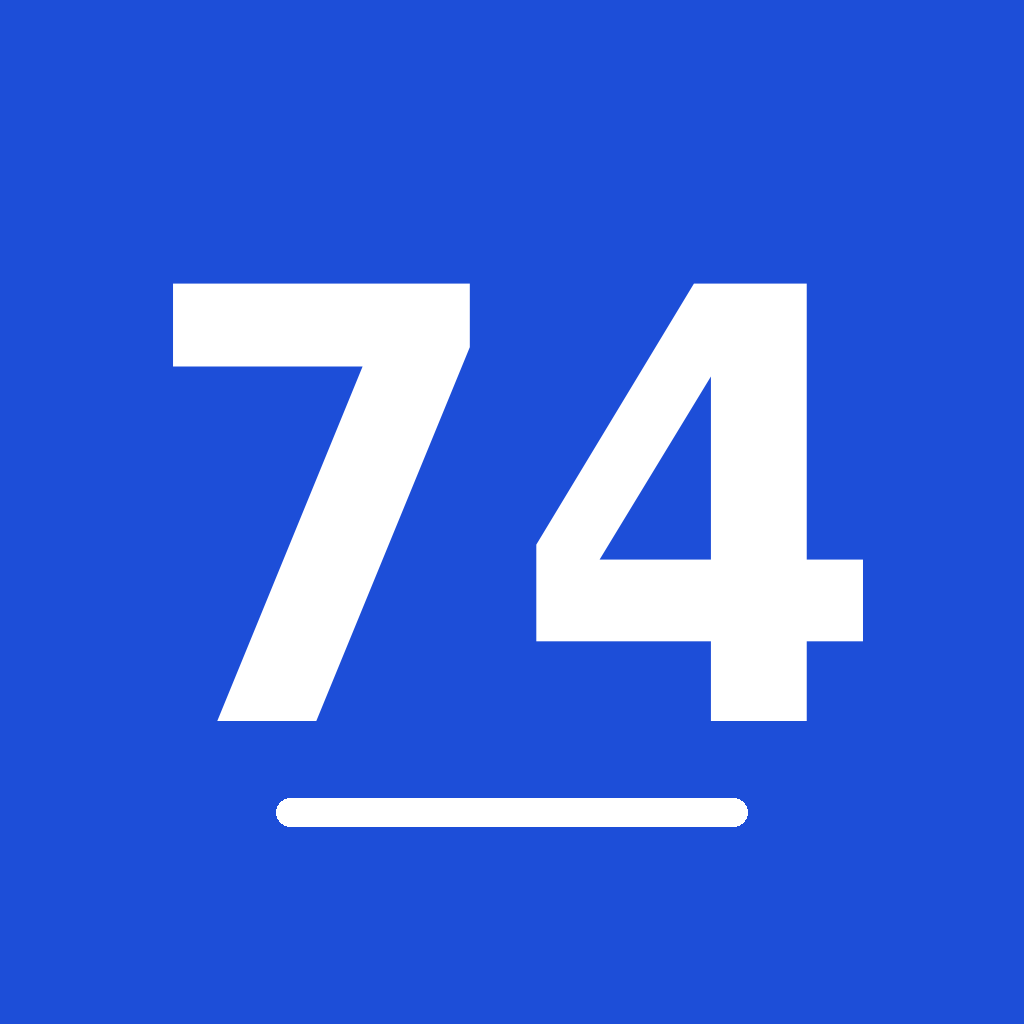
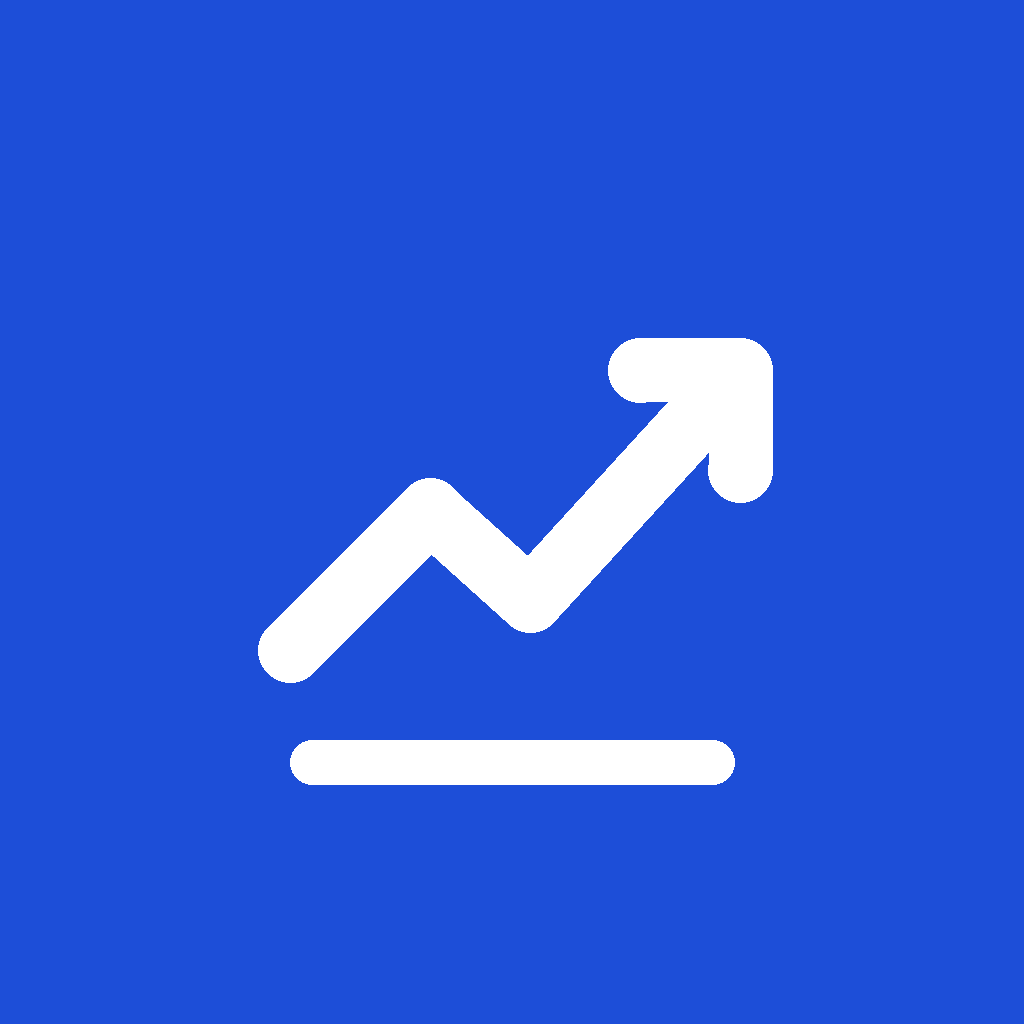
Hacer la app personalizable: bienvenida, nombre, metas de subir o bajar e ícono neutro
Claude-Session: https://claude.ai/code/session_0172rjpbYCFZVK7n6eLpczvZ

Changed region(s): [[0.1562, 0.25, 0.8438, 0.8125]]

diff --git a/www/index.html b/www/index.html
@@ -4,7 +4,7 @@
 <meta charset="utf-8">
 <meta name="viewport" content="width=device-width,initial-scale=1,viewport-fit=cover">
 <meta name="color-scheme" content="light dark">
-<title>Camino a 74</title>
+<title>Mi Camino</title>
 <link rel="stylesheet" href="fonts/fonts.css">
 <style>
 /* Concepto: app de bolsillo con cinta inferior; el micrófono es el botón central elevado. Estilo atlético: tipografía condensada, tarjetas planas, un solo azul de acento y un naranja solo para el asistente. */
@@ -269,8 +269,10 @@ const ic=(n,s)=>`<svg width="${s||22}" height="${s||22}" viewBox="0 0 24 24" fil
 
 /* ---------- Contenido ---------- */
 const MET_ROPE=11.0; /* Compendio de Actividad Física, "Rope skipping exercise, general" */
-const DEF={startW:80,targetW:74,height:1.74,pMin:1.3,waterGoal:8,rem:{weigh:{on:true,t:'06:30'},lunch:{on:true,t:'12:30'},train:{on:true,t:'18:00'},diary:{on:true,t:'21:00'}}};
-function normSettings(x){const s=Object.assign({},DEF,clone(x||{}));s.rem=Object.assign(clone(DEF.rem),(x&&x.rem)||{});Object.keys(DEF.rem).forEach(k=>{s.rem[k]=Object.assign({},DEF.rem[k],s.rem[k]);});s.customEx=Array.isArray(s.customEx)?s.customEx:[];return s;}
+const DEF={setup:false,name:'',startW:80,targetW:74,height:1.74,pMin:1.3,waterGoal:8,rem:{weigh:{on:true,t:'06:30'},lunch:{on:true,t:'12:30'},train:{on:true,t:'18:00'},diary:{on:true,t:'21:00'}}};
+function normSettings(x){const s=Object.assign({},DEF,clone(x||{}));s.rem=Object.assign(clone(DEF.rem),(x&&x.rem)||{});Object.keys(DEF.rem).forEach(k=>{s.rem[k]=Object.assign({},DEF.rem[k],s.rem[k]);});s.customEx=Array.isArray(s.customEx)?s.customEx:[];s.name=String(s.name||'').slice(0,30);return s;}
+/* dir: -1 si la meta es bajar, 1 si es subir, 0 si es mantener */
+const gdir=()=>{const d=S.settings.targetW-S.settings.startW;return Math.abs(d)<0.05?0:d>0?1:-1;};
 const PLAN={
  0:{title:'Descanso activo',kind:'Movilidad',min:10,ex:[
    {n:'Movilidad de cadera y hombros',d:'10 min, sin prisa',m:['Caderas','Hombros','Espalda baja']},
@@ -382,7 +384,7 @@ async function kvSet(k,v){const P=plug('Preferences');try{if(P){await P.set({key
 async function loadStore(){
   let raw=await kvGet(KEY);
   if(raw==null){try{raw=localStorage.getItem(KEY);}catch(e){}}
-  try{const r=JSON.parse(raw||'null');if(r){S.settings=normSettings(r.settings);Object.keys(r.days||{}).forEach(k=>{S.days[k]=normDay(Object.assign({date:k},r.days[k]));});}}catch(e){}
+  try{const r=JSON.parse(raw||'null');if(r){S.settings=normSettings(r.settings);if(!r.settings||r.settings.setup==null)S.settings.setup=true;Object.keys(r.days||{}).forEach(k=>{S.days[k]=normDay(Object.assign({date:k},r.days[k]));});}}catch(e){}
 }
 function saveLocal(){kvSet(KEY,JSON.stringify({settings:S.settings,days:S.days}));}
 function payload(id){return id==='settings'?S.settings:(S.days[id.slice(2)]||null);}
@@ -399,7 +401,7 @@ function commit(date){render();schedule('d-'+date);}
 function commitSettings(){render();schedule('settings');}
 
 /* ---------- Vistas ---------- */
-function headerHTML(){return `<div class="brand">Camino a <b>74</b></div><div class="sync" id="sync">${syncText()}</div>`;}
+function headerHTML(){return `<div class="brand">Camino a <b>${kg(S.settings.targetW)}</b></div><div class="sync" id="sync">${syncText()}</div>`;}
 function navHTML(){
   const b=(id,icn,lb)=>`<button class="nb" data-act="tab" data-id="${id}" ${S.tab===id?'aria-current="page"':''}>${ic(icn,22)}<span>${lb}</span></button>`;
   return `<div class="in">${b('hoy','today','Hoy')}${b('comida','food','Comida')}<button class="mic" data-act="assist-open" aria-label="Abrir asistente de voz">${ic('mic',30)}</button>${b('diario','book','Diario')}${b('progreso','chart','Progreso')}</div>`;
@@ -422,7 +424,7 @@ function hoyView(){
   return `${dateBar()}
   <section class="card"><div class="hero">
     <div class="ring"><svg width="96" height="96" viewBox="0 0 96 96" role="img" aria-label="${pc}% del día"><g transform="rotate(-90 48 48)"><circle class="bg" cx="48" cy="48" r="36"/><circle class="fg" cx="48" cy="48" r="36" stroke-dasharray="${C.toFixed(1)}" stroke-dashoffset="${off.toFixed(1)}"/></g></svg><div class="n">${pc}%</div></div>
-    <div class="t"><div class="big">${done} de ${it.length} listos</div>
+    <div class="t">${S.settings.name?`<div class="muted">Hola, ${esc(S.settings.name)}</div>`:''}<div class="big">${done} de ${it.length} listos</div>
     ${st>0?`<div class="streak">${ic('flame',18)} Racha: ${st} ${st===1?'día':'días'} con 70% o más</div>`:'<div class="muted">La racha cuenta días con 70% o más.</div>'}</div>
   </div></section>
 
@@ -566,14 +568,15 @@ function weekly(){
 }
 function progresoAll(){
   const ws=weights(),st=S.settings,w=curW(),tr=trend();
-  const first=ws.length?ws[0].w:st.startW,total=w-st.startW,need=st.startW-st.targetW;
-  const prog=need>0?Math.max(0,Math.min(100,Math.round(100*(st.startW-w)/need))):0;
+  const first=ws.length?ws[0].w:st.startW,total=w-st.startW,dir=gdir(),need=Math.abs(st.targetW-st.startW);
+  const prog=need>0?Math.max(0,Math.min(100,Math.round(100*dir*(w-st.startW)/need))):0;
+  const okd=x=>dir===0?Math.abs(x)<0.3:x*dir>0;
   const bmi=w/(st.height*st.height);
   let proj='';
   if(tr){
     const d=tr.perWeek;
-    proj=`<p>Ritmo de los últimos 14 días: <b class="${d<0?'good':'warn'}">${d>0?'+':''}${fmt(d,2)} kg por semana</b> (${fmt(100*d/w,2)}% del peso).</p>`;
-    if(tr.slope<0&&tr.cur>st.targetW){const days=(tr.cur-st.targetW)/(-tr.slope);proj+=days<=730?`<p class="muted">Si mantienes este ritmo llegarías a ${kg(st.targetW)} kg hacia el ${(()=>{const t=parse(addDays(tr.last,Math.round(days)));return t.getDate()+' '+MON[t.getMonth()]+' '+t.getFullYear();})()}. Es una estimación y cambia con tu ritmo.</p>`:'<p class="muted">A este ritmo la meta queda a más de dos años. Revisa la constancia en la lista diaria.</p>';}
+    proj=`<p>Ritmo de los últimos 14 días: <b class="${okd(d)?'good':'warn'}">${d>0?'+':''}${fmt(d,2)} kg por semana</b> (${fmt(100*d/w,2)}% del peso).</p>`;
+    if(dir!==0&&tr.slope*dir>0&&(st.targetW-tr.cur)*dir>0){const days=(st.targetW-tr.cur)/tr.slope;proj+=days<=730?`<p class="muted">Si mantienes este ritmo llegarías a ${kg(st.targetW)} kg hacia el ${(()=>{const t=parse(addDays(tr.last,Math.round(days)));return t.getDate()+' '+MON[t.getMonth()]+' '+t.getFullYear();})()}. Es una estimación y cambia con tu ritmo.</p>`:'<p class="muted">A este ritmo la meta queda a más de dos años. Revisa la constancia en la lista diaria.</p>';}
   } else proj='<p class="muted">El ritmo aparece cuando tengas al menos 4 pesos repartidos en 7 días o más.</p>';
   const wk=weekly().slice(-6).reverse();
   const all=weekly().filter(r=>r.delta!=null),hiW=all.filter(r=>r.adh>=70),loW=all.filter(r=>r.adh<70);
@@ -585,11 +588,11 @@ function progresoAll(){
   const f=(id,lb,v,step)=>`<label>${lb}<input id="s-${id}" data-field="set-${id}" inputmode="decimal" autocomplete="off" value="${v}"></label>`;
   return `<section class="card"><div><div class="eyebrow">Récord de peso</div><h2>${kg(w)} kg</h2></div>
     <div class="bar good"><i style="width:${prog}%"></i></div>
-    <p class="muted">${prog}% del camino de ${kg(st.startW)} a ${kg(st.targetW)} kg${ws.length?'':' · registra tu primer peso en Hoy'}</p></section>
+    <p class="muted">${dir===0?'Meta: mantener tu peso cerca de '+kg(st.targetW)+' kg':prog+'% del camino de '+kg(st.startW)+' a '+kg(st.targetW)+' kg'}${ws.length?'':' · registra tu primer peso en Hoy'}</p></section>
   <section class="card">${chartSVG()}
     <div class="legend"><span>Promedio 7 días</span><span class="l2">Pesaje diario</span><span class="l3">Meta</span></div></section>
   <div class="tiles">
-    <div class="tile"><span class="lb">Cambio total</span><span class="val ${total<0?'good':''}">${ws.length?(total>0?'+':'')+fmt(total,1):'—'}<span class="unit"> kg</span></span><span class="sb">desde ${kg(st.startW)} kg</span></div>
+    <div class="tile"><span class="lb">Cambio total</span><span class="val ${okd(total)?'good':''}">${ws.length?(total>0?'+':'')+fmt(total,1):'—'}<span class="unit"> kg</span></span><span class="sb">desde ${kg(st.startW)} kg</span></div>
     <div class="tile"><span class="lb">IMC</span><span class="val">${fmt(bmi,1)}</span><span class="sb">con ${fmt(st.height,2)} m de estatura</span></div>
     <div class="tile"><span class="lb">Cintura</span><span class="val">${wTxt.replace(' cm','')}<span class="unit"> cm</span></span><span class="sb">${wDelta!=null?(wDelta>0?'+':'')+fmt(wDelta,1)+' cm desde la primera medida':'mide una vez por semana'}</span></div>
     <div class="tile"><span class="lb">Racha</span><span class="val ${streak()?'hotc':''}">${streak()}<span class="unit"> días</span></span><span class="sb">con 70% o más</span></div>
@@ -597,10 +600,11 @@ function progresoAll(){
   <section class="card"><h3>Ritmo</h3>${proj}</section>
   <section class="card"><h3>Semana a semana</h3>
     ${wk.length?`<div class="wkh"><span>Semana</span><span>Peso prom.</span><span>Cambio</span><span>Cumpl.</span><span>Cuerda</span></div>
-    ${wk.map(r=>{const t=parse(r.k);return `<div class="wk"><span>${t.getDate()} ${MON[t.getMonth()]}</span><span>${r.avg!=null?kg(r.avg):'—'}</span><span class="${r.delta!=null&&r.delta<0?'good':''}">${r.delta!=null?(r.delta>0?'+':'')+fmt(r.delta,1):'—'}</span><span><div class="bar"><i style="width:${r.adh}%"></i></div><span class="pcttxt">${r.adh}%</span></span><span>${r.jump} min</span></div>`;}).join('')}`:'<p class="muted">Cuando tengas registros de una semana, aparece aquí con tu peso promedio, el cambio, el cumplimiento y los minutos de cuerda.</p>'}
+    ${wk.map(r=>{const t=parse(r.k);return `<div class="wk"><span>${t.getDate()} ${MON[t.getMonth()]}</span><span>${r.avg!=null?kg(r.avg):'—'}</span><span class="${r.delta!=null&&gdir()!==0&&r.delta*gdir()>0?'good':''}">${r.delta!=null?(r.delta>0?'+':'')+fmt(r.delta,1):'—'}</span><span><div class="bar"><i style="width:${r.adh}%"></i></div><span class="pcttxt">${r.adh}%</span></span><span>${r.jump} min</span></div>`;}).join('')}`:'<p class="muted">Cuando tengas registros de una semana, aparece aquí con tu peso promedio, el cambio, el cumplimiento y los minutos de cuerda.</p>'}
     ${ins}
   </section>
   <section class="card"><h3>Mis metas</h3>
+    <label>Tu nombre<input id="s-name" data-field="set-name" autocomplete="off" value="${esc(st.name||'')}"></label>
     <div class="fields">${f('startW','Peso inicial (kg)',kg(st.startW))}${f('targetW','Peso meta (kg)',kg(st.targetW))}${f('height','Estatura (m)',fmt(st.height,2))}${f('pMin','Proteína mínima (g/kg)',fmt(st.pMin,1))}${f('waterGoal','Vasos de agua al día',st.waterGoal)}</div>
   </section>
   ${remCard()}${backupCard()}${aiCard()}
@@ -825,14 +829,43 @@ function progresoView(){
 }
 
 /* ---------- Render y eventos ---------- */
+function welcomeView(){
+  const st=S.settings;
+  return `<section class="card"><div><div class="eyebrow">Bienvenida</div><h2>Vamos a configurar tu camino</h2></div>
+    <p class="muted">Son 4 datos. Se guardan solo en este teléfono y los puedes cambiar después en Progreso, Ajustes.</p>
+    <form id="welcome-form" style="display:flex;flex-direction:column;gap:12px">
+      <label>Tu nombre<input name="name" autocomplete="off" placeholder="Opcional"></label>
+      <div class="fields3">
+        <label>Peso actual (kg)<input name="startW" inputmode="decimal" autocomplete="off" placeholder="${kg(st.startW)}"></label>
+        <label>Peso meta (kg)<input name="targetW" inputmode="decimal" autocomplete="off" placeholder="${kg(st.targetW)}"></label>
+        <label>Estatura (m)<input name="height" inputmode="decimal" autocomplete="off" placeholder="${fmt(st.height,2)}"></label>
+      </div>
+      <p class="muted">Si tu meta es mayor que tu peso actual, la app mide el avance hacia subir. Si es igual, hacia mantener.</p>
+      <button class="btn" type="submit">${ic('check',20)} Empezar</button>
+    </form></section>
+  <section class="card"><h3>Antes de empezar</h3><div class="src">
+    <span>La rutina semanal es general, de nivel principiante y para hacer en casa. Si tienes una lesión o una condición médica, consúltala con tu médico antes de entrenar.</span>
+    <span>La meta de proteína por defecto es 1,3 g por kg de peso al día, tomada de estudios en adultos con sobrepeso que bajan de peso. Puedes cambiarla en Ajustes.</span>
+  </div></section>`;
+}
+function doWelcome(f){
+  const fd=new FormData(f),s=S.settings,sw=num(fd.get('startW')),tw=num(fd.get('targetW')),h0=num(fd.get('height'));
+  const hh=h0!=null&&h0>3?h0/100:h0;
+  if(sw==null||!(sw>=30&&sw<=300)){toast('Escribe tu peso actual en kg.');return;}
+  if(tw==null||!(tw>=30&&tw<=300)){toast('Escribe tu peso meta en kg.');return;}
+  if(hh==null||!(hh>=1.2&&hh<=2.3)){toast('Escribe tu estatura, por ejemplo 1,65.');return;}
+  s.name=String(fd.get('name')||'').trim().slice(0,30);s.startW=sw;s.targetW=tw;s.height=hh;s.setup=true;
+  S.tab='hoy';commitSettings();window.scrollTo(0,0);
+}
 function render(force){
   const a=document.activeElement;
   if(!force&&a&&a!==document.body&&$('#view').contains(a)&&/^(INPUT|TEXTAREA|SELECT)$/.test(a.tagName)){pendingRender=true;return;}
   pendingRender=false;
   let fk=null;if(a&&a.dataset&&a.dataset.act&&a.dataset.act!=='tab')fk={act:a.dataset.act,id:a.dataset.id||'',n:a.dataset.n||'',v:a.dataset.v||'',kind:a.dataset.kind||''};
   $('#hd').innerHTML=headerHTML();
-  $('#view').innerHTML=({hoy:hoyView,comida:comidaView,diario:diarioView,progreso:progresoView})[S.tab]();
-  $('#nav').innerHTML=navHTML();
+  const wel=!S.settings.setup;
+  $('#view').innerHTML=wel?welcomeView():({hoy:hoyView,comida:comidaView,diario:diarioView,progreso:progresoView})[S.tab]();
+  $('#nav').innerHTML=wel?'':navHTML();
   if(fk){const el=Array.from(document.querySelectorAll('[data-act="'+fk.act+'"]')).find(e=>(e.dataset.id||'')===fk.id&&(e.dataset.n||'')===fk.n&&(e.dataset.v||'')===fk.v&&(e.dataset.kind||'')===fk.kind);if(el&&!el.disabled)el.focus({preventScroll:true});}
 }
 let toastT=null;
@@ -877,6 +910,7 @@ document.addEventListener('change',e=>{
     commit(S.date);
   } else if(f.indexOf('set-')===0){
     const k=f.slice(4),s=S.settings;let x=v;
+    if(k==='name'){s.name=String(t.value||'').trim().slice(0,30);commitSettings();return;}
     if(x==null){commitSettings();return;}
     if(k==='height'&&x>3)x=x/100;
     const lim={startW:[30,300],targetW:[30,300],height:[1.2,2.3],pMin:[0.8,2.4],waterGoal:[1,20]}[k];
@@ -886,6 +920,7 @@ document.addEventListener('change',e=>{
 });
 document.addEventListener('submit',e=>{
   const f=e.target;
+  if(f.id==='welcome-form'){e.preventDefault();doWelcome(f);return;}
   if(f.id==='lift-form'){e.preventDefault();addLift(f);return;}
   if(f.id==='newex-form'){e.preventDefault();addEx(f);return;}
   if(f.id!=='entry-form')return;e.preventDefault();
@@ -929,7 +964,7 @@ async function nativeMic(){
     if(!av||!av.available){note.textContent='Este teléfono no tiene el reconocimiento de voz de Google activo. Escribe o usa el micrófono del teclado.';ta.focus();return;}
     let p=await SRP.checkPermissions();
     if(p.speechRecognition!=='granted')p=await SRP.requestPermissions();
-    if(p.speechRecognition!=='granted'){note.textContent='Necesito el permiso de micrófono. Actívalo en Ajustes del teléfono, Aplicaciones, Camino a 74.';return;}
+    if(p.speechRecognition!=='granted'){note.textContent='Necesito el permiso de micrófono. Actívalo en Ajustes del teléfono, Aplicaciones, Mi Camino.';return;}
     await SRP.removeAllListeners();
     const base=ta.value?ta.value.trim()+' ':'';
     await SRP.addListener('partialResults',d=>{if(d&&d.matches&&d.matches.length)ta.value=base+d.matches[0];});

diff --git a/README.md b/README.md
@@ -1,6 +1,6 @@
-# Camino a 74
+# Mi Camino
 
-App de Android para seguir tu rutina de ejercicio, tus comidas, tu diario y tu progreso de peso (de 80 a 74 kg).
+App de Android para seguir tu rutina de ejercicio, tus comidas, tu diario y tu progreso de peso hacia tu meta (bajar, subir o mantener). Cada persona la configura la primera vez que la abre.
 Funciona sin internet, guarda todo en el teléfono y tiene asistente de voz y recordatorios.
 
 ## Instalar en el teléfono
